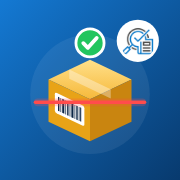
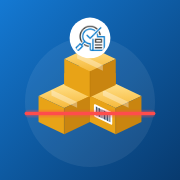
تحضير المخزن: أيقونة بأربع صناديق ولوجو مدقق فوقهم
Claude-Session: https://claude.ai/code/session_0176JSfWiMCZHg4ykvAJNv7o

Changed region(s): [[0.1111, 0.0833, 0.8889, 0.7778]]

diff --git a/warehouse/index.html b/warehouse/index.html
@@ -57,7 +57,7 @@
   #intro .ibox { width: 150px; height: 150px; border-radius: 34px; overflow: hidden; box-shadow: 0 18px 50px rgba(0,0,0,.35); animation: ipop .55s cubic-bezier(.2,1.4,.4,1) both; }
   #intro .iico { width: 100%; height: 100%; display: block; }
   #intro .iscan { animation: isweep 1s .35s ease-in-out both; }
-  #intro .icheck { transform-origin: 256px 122px; animation: icheck .45s 1.15s cubic-bezier(.2,1.6,.4,1) both; }
+  #intro .icheck { transform-origin: 256px 108px; animation: icheck .45s 1.15s cubic-bezier(.2,1.6,.4,1) both; }
   #intro .iname { font-size: 28px; font-weight: 800; margin-top: 14px; animation: iup .5s .5s both; }
   #intro .isub { font-size: 14px; opacity: .85; animation: iup .5s .65s both; }
   #intro .ilogos { display: flex; align-items: center; gap: 10px; margin-top: 26px; background: #fff; border-radius: 16px; padding: 8px 14px; animation: iup .5s .85s both; }
@@ -288,43 +288,51 @@
 <body>
 <!-- الانترو -->
 <div id="intro">
-  <div class="ibox"><svg xmlns="http://www.w3.org/2000/svg" xmlns:xlink="http://www.w3.org/1999/xlink" viewBox="0 0 512 512" class="iico" aria-hidden="true">
+  <div class="ibox"><svg xmlns="http://www.w3.org/2000/svg" viewBox="0 0 512 512" class="iico" aria-hidden="true">
   <defs>
-    <clipPath id="mqc"><circle cx="392" cy="116" r="52"/></clipPath>
-    <linearGradient id="bg" x1="0" y1="0" x2="1" y2="1">
-      <stop offset="0" stop-color="#1479D3"/><stop offset="1" stop-color="#083A6E"/>
-    </linearGradient>
-    <linearGradient id="top" x1="0" y1="0" x2="0" y2="1">
-      <stop offset="0" stop-color="#FFE08A"/><stop offset="1" stop-color="#F6B93B"/>
-    </linearGradient>
+    <linearGradient id="bg" x1="0" y1="0" x2="1" y2="1"><stop offset="0" stop-color="#1479D3"/><stop offset="1" stop-color="#083A6E"/></linearGradient>
+    <linearGradient id="top" x1="0" y1="0" x2="0" y2="1"><stop offset="0" stop-color="#FFE08A"/><stop offset="1" stop-color="#F6B93B"/></linearGradient>
+    <clipPath id="mqc"><circle cx="256" cy="108" r="50"/></clipPath>
   </defs>
   <rect width="512" height="512" fill="url(#bg)"/>
-  <circle cx="256" cy="268" r="170" fill="#ffffff" opacity=".07"/>
-  <!-- الكرتونة -->
-  <g transform="translate(256 270)">
+  <circle cx="256" cy="290" r="185" fill="#ffffff" opacity=".07"/>
+  <g transform="translate(256 236.56) scale(0.62)">
     <path d="M-118 -44 L0 -100 L118 -44 L0 12 Z" fill="url(#top)"/>
     <path d="M-118 -44 L0 12 L0 132 L-118 76 Z" fill="#E8A317"/>
     <path d="M118 -44 L0 12 L0 132 L118 76 Z" fill="#C98510"/>
     <path d="M-59 -72 L59 -16 L59 10 L-59 -46 Z" fill="#ffffff" opacity=".35"/>
-    <!-- ملصق الباركود -->
+    <path d="M0 12 L0 132" stroke="#B87708" stroke-width="2"/>
+  </g>
+  <g transform="translate(182.84 300) scale(0.62)">
+    <path d="M-118 -44 L0 -100 L118 -44 L0 12 Z" fill="url(#top)"/>
+    <path d="M-118 -44 L0 12 L0 132 L-118 76 Z" fill="#E8A317"/>
+    <path d="M118 -44 L0 12 L0 132 L118 76 Z" fill="#C98510"/>
+    <path d="M-59 -72 L59 -16 L59 10 L-59 -46 Z" fill="#ffffff" opacity=".35"/>
+    <path d="M0 12 L0 132" stroke="#B87708" stroke-width="2"/>
+  </g>
+  <g transform="translate(329.15999999999997 300) scale(0.62)">
+    <path d="M-118 -44 L0 -100 L118 -44 L0 12 Z" fill="url(#top)"/>
+    <path d="M-118 -44 L0 12 L0 132 L-118 76 Z" fill="#E8A317"/>
+    <path d="M118 -44 L0 12 L0 132 L118 76 Z" fill="#C98510"/>
+    <path d="M-59 -72 L59 -16 L59 10 L-59 -46 Z" fill="#ffffff" opacity=".35"/>
+    <path d="M0 12 L0 132" stroke="#B87708" stroke-width="2"/>
     <g transform="matrix(1 .475 0 1 -100 -8)">
       <rect x="0" y="0" width="84" height="58" rx="6" fill="#fff"/>
-      <g fill="#0B2545">
-        <rect x="9" y="9" width="4" height="40"/><rect x="16" y="9" width="2" height="40"/><rect x="21" y="9" width="6" height="40"/>
-        <rect x="30" y="9" width="2" height="40"/><rect x="35" y="9" width="4" height="40"/><rect x="42" y="9" width="2" height="40"/>
-        <rect x="47" y="9" width="6" height="40"/><rect x="56" y="9" width="2" height="40"/><rect x="61" y="9" width="4" height="40"/>
-        <rect x="68" y="9" width="2" height="40"/><rect x="72" y="9" width="3" height="40"/>
-      </g>
+      <g fill="#0B2545"><rect x="9" y="9" width="4" height="40"/><rect x="16" y="9" width="2" height="40"/><rect x="21" y="9" width="6" height="40"/><rect x="30" y="9" width="2" height="40"/><rect x="35" y="9" width="4" height="40"/><rect x="42" y="9" width="2" height="40"/><rect x="47" y="9" width="6" height="40"/><rect x="56" y="9" width="2" height="40"/><rect x="61" y="9" width="4" height="40"/><rect x="68" y="9" width="2" height="40"/><rect x="72" y="9" width="3" height="40"/></g>
     </g>
   </g>
+  <g transform="translate(256 194.88) scale(0.62)">
+    <path d="M-118 -44 L0 -100 L118 -44 L0 12 Z" fill="url(#top)"/>
+    <path d="M-118 -44 L0 12 L0 132 L-118 76 Z" fill="#E8A317"/>
+    <path d="M118 -44 L0 12 L0 132 L118 76 Z" fill="#C98510"/>
+    <path d="M-59 -72 L59 -16 L59 10 L-59 -46 Z" fill="#ffffff" opacity=".35"/>
+    <path d="M0 12 L0 132" stroke="#B87708" stroke-width="2"/>
+  </g>
   <!-- خط المسح -->
-  <g class="iscan"><rect x="96" y="286" width="320" height="10" rx="5" fill="#FF4D4D"/><rect x="96" y="280" width="320" height="22" rx="11" fill="#FF4D4D" opacity=".25"/></g>
-  <!-- علامة صح فوق الكرتونة -->
-  <g class="icheck"><circle cx="256" cy="122" r="40" fill="#22C55E" stroke="#fff" stroke-width="8"/>
-  <path d="M237 123 l13 13 l25 -28" fill="none" stroke="#fff" stroke-width="11" stroke-linecap="round" stroke-linejoin="round"/></g>
-  <!-- لوجو مدقق -->
-  <circle cx="392" cy="116" r="60" fill="#fff"/>
[1 lines of base64/hex data omitted]
+  <g class="iscan"><rect x="70" y="318" width="372" height="10" rx="5" fill="#FF4D4D"/><rect x="70" y="312" width="372" height="22" rx="11" fill="#FF4D4D" opacity=".25"/></g>
+  <!-- لوجو مدقق فوق الصناديق -->
+  <g class="icheck"><circle cx="256" cy="108" r="58" fill="#fff"/>
[1 lines of base64/hex data omitted]
 </svg></div>
   <div class="iname">تحضير المخزن</div>
   <div class="isub">تحضير طلبيات الفروع بالباركود</div>
